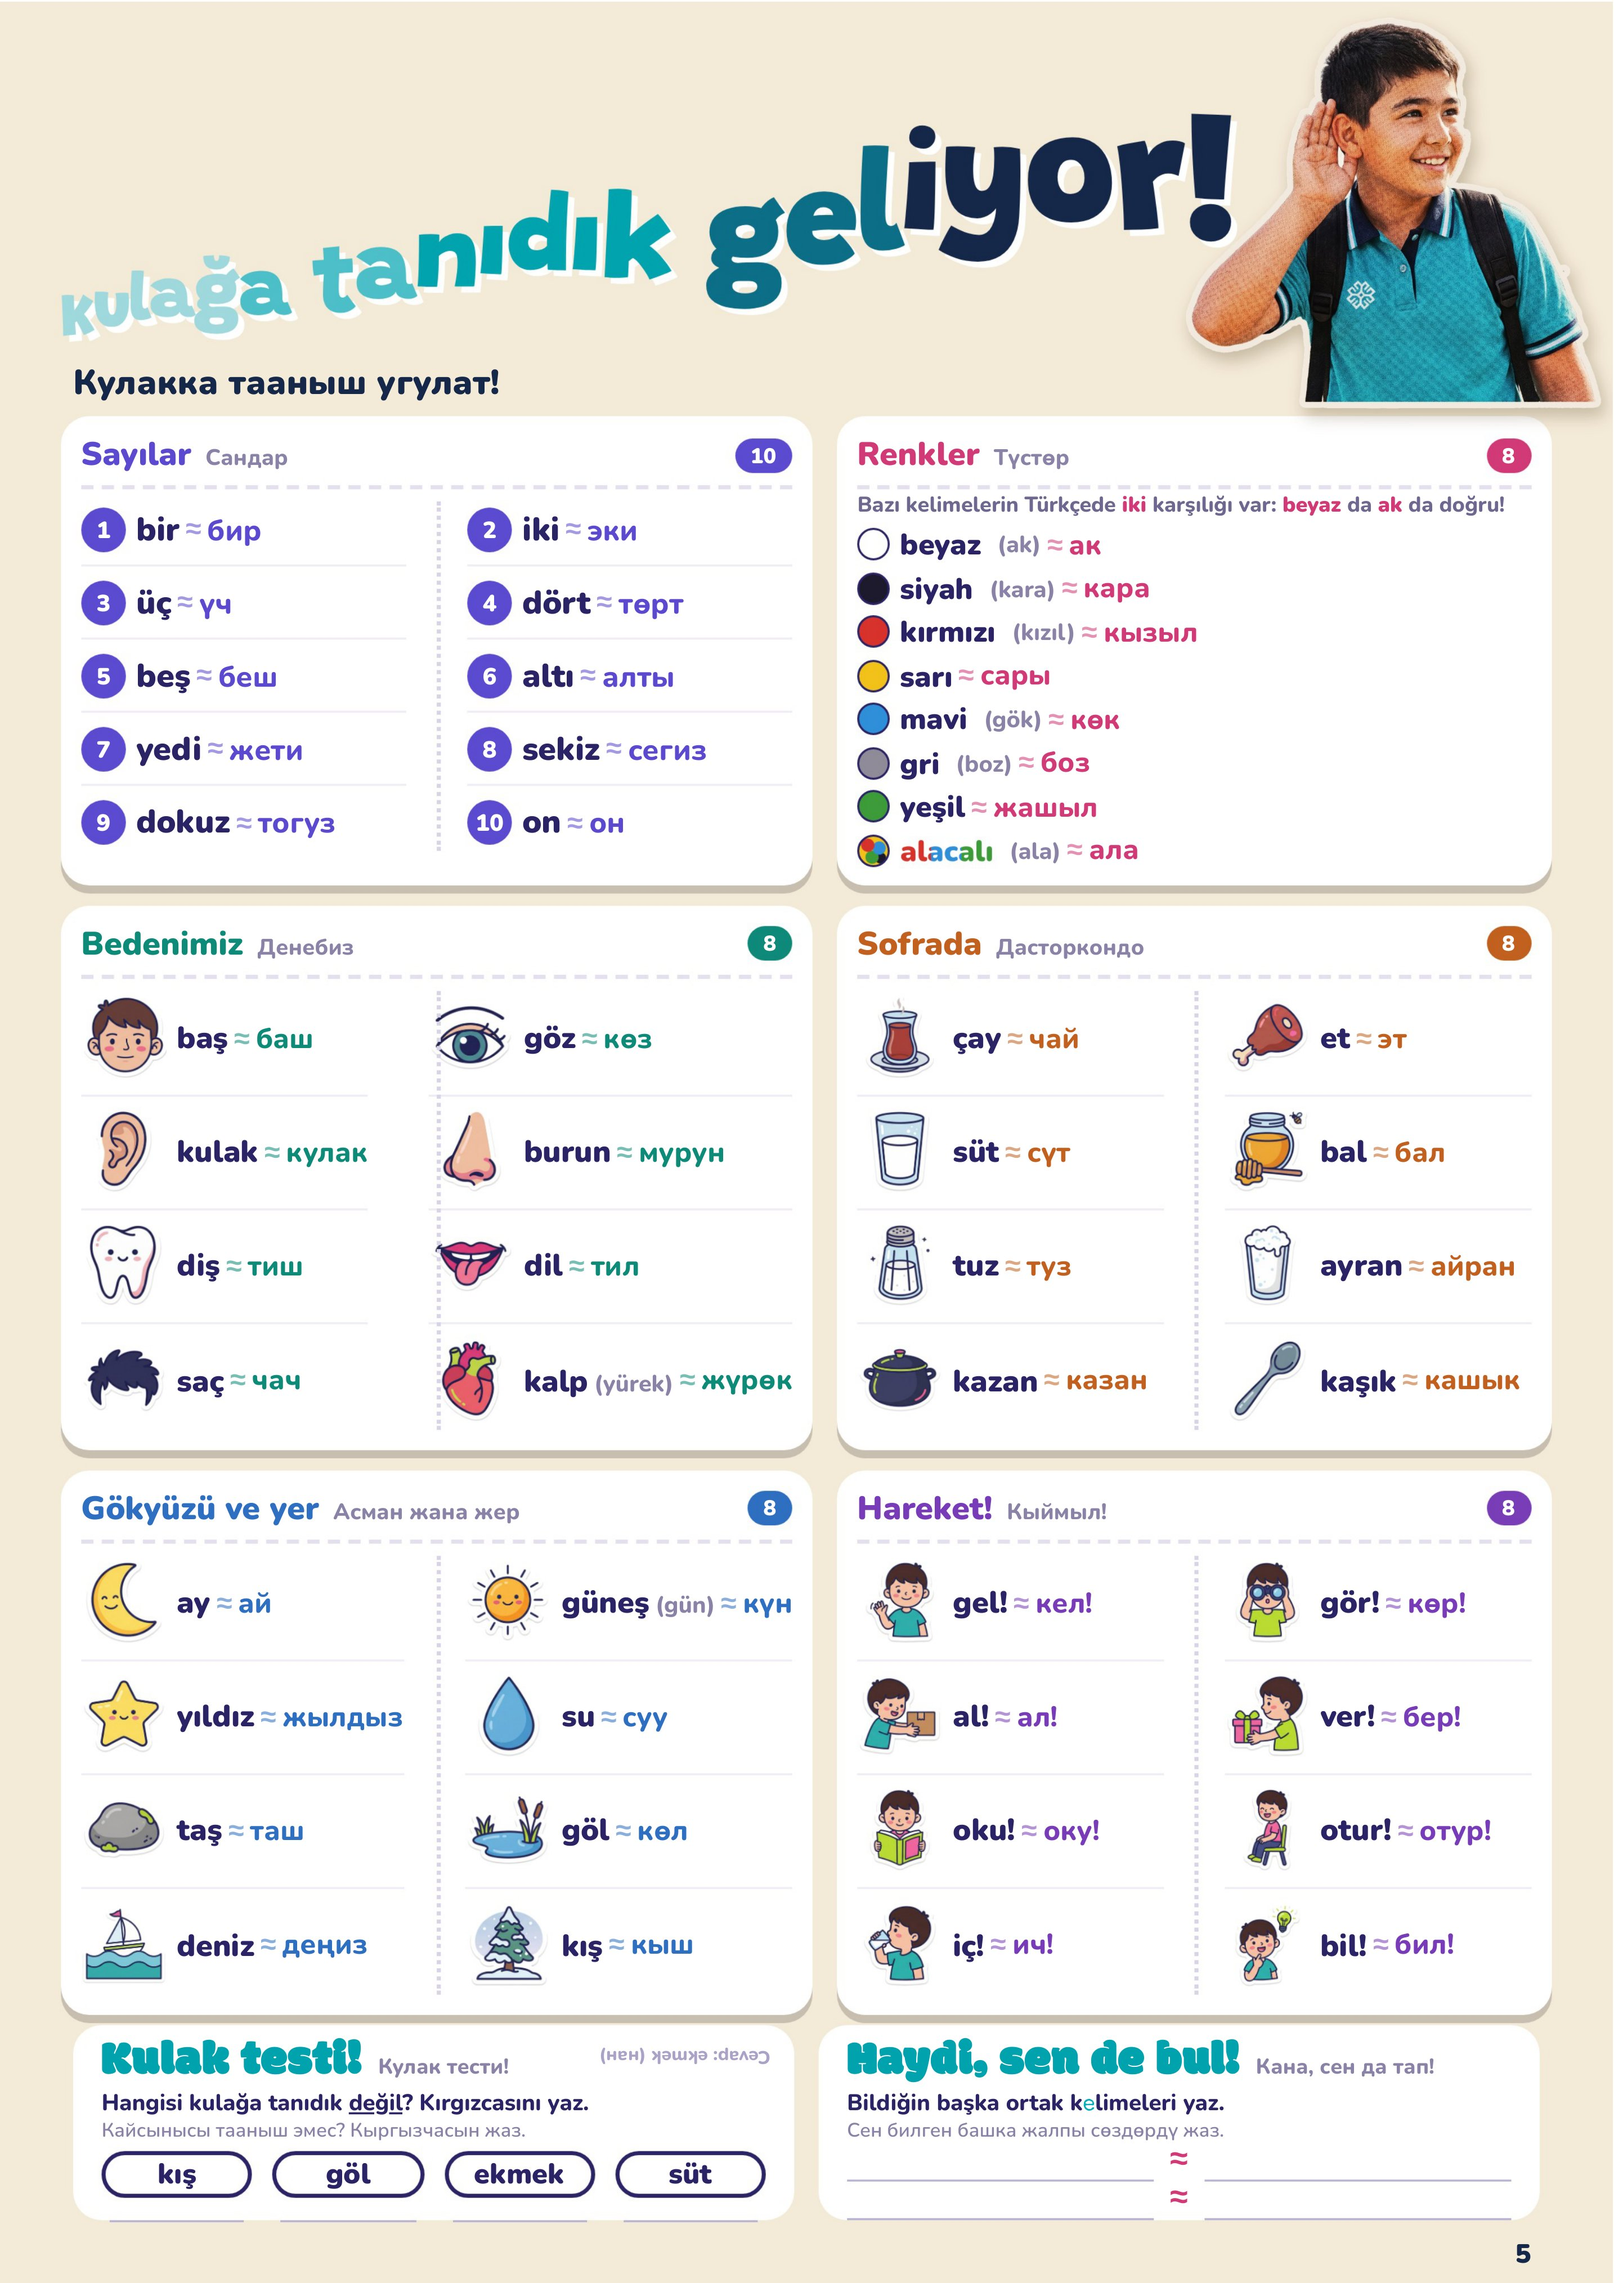
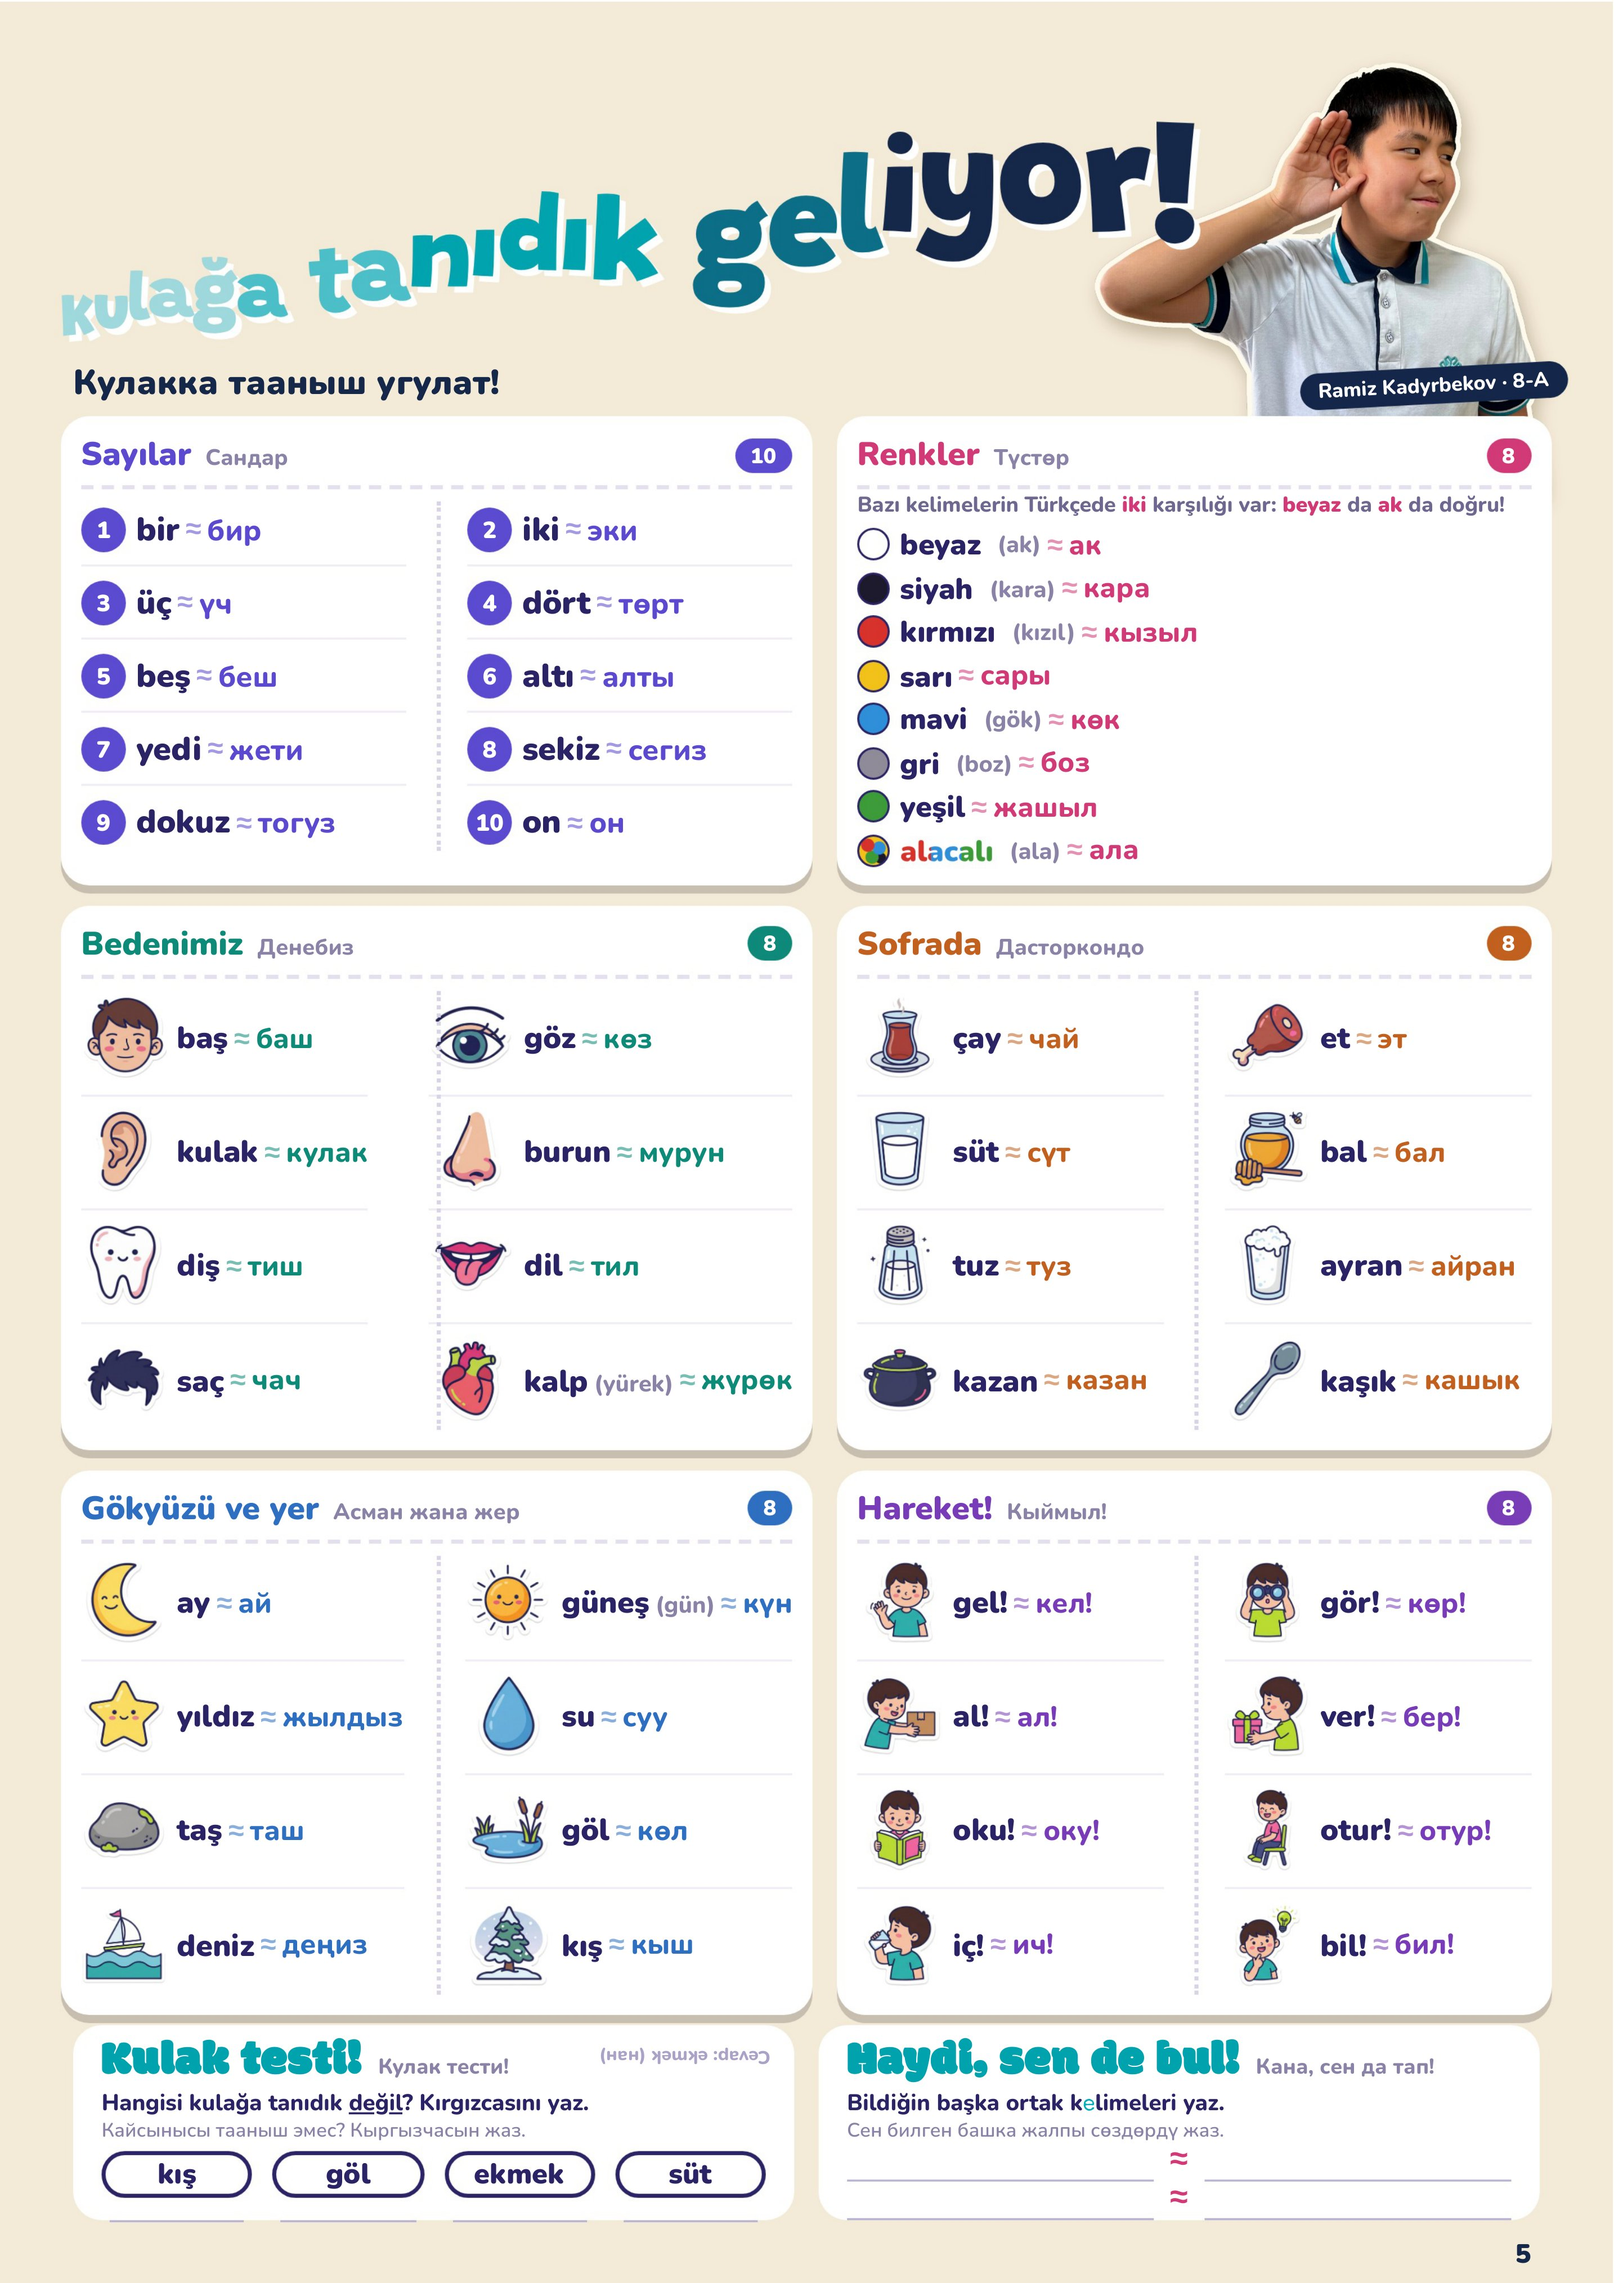
Yeni arka kapak (Görüşürüz!), 5. sayfada Ramiz'in fotoğrafı, içindekiler güncellendi
Claude-Session: https://claude.ai/code/session_01SPWYvny15e3UBniUuKYJUx

Changed region(s): [[0.1241, 0.0, 0.993, 0.1864], [0.0621, 0.1243, 0.0931, 0.1553]]

diff --git a/index.html b/index.html
@@ -136,7 +136,7 @@ footer{text-align:center;font-size:11px;font-weight:700;opacity:.6;padding:0 12p
 </div></div>
 
 <script src="lib/page-flip.browser.js"></script>
-<script src="ekstralar.js?v=20261114c"></script>
+<script src="ekstralar.js?v=20261117"></script>
 <script>
 const N = 20;
 // Sayfa ekstraları: sayfa no → [buton yazısı, başlık, kırgızca, açıklama]
@@ -151,7 +151,7 @@ const EXTRA = {
   17: ['Videolar', 'Dağların Hayaleti', 'Тоолордун арбагы', 'Kar leoparı, Anadolu parsı, kangal ve caretta videoları.'],
   18: ['Keşfet', 'Bulut Yolda', 'Булут жолдо', 'Haritada Bulut ile Kar\'ın yolunu izle. Yeni rotayı sen seç!'],
   19: ['Oyna', 'Bilgi Yağmuru', 'Маалымат жамгыры', 'Şaka olan damlayı bul!'],
-  20: ['Katıl', 'BULUT Avı', 'BULUT аңчылыгы', 'Gizli sözü yaz, çekilişe katıl. Rotaya oy ver, fotoğrafını gönder!'],
+  20: ['Katıl', 'Görüşürüz!', 'Көрүшкөнчө!', 'Gizli sözü yaz, çekilişe katıl. Rotaya oy ver, fotoğrafını gönder!'],
 };
 const ICON = '<svg width="18" height="18" viewBox="0 0 24 24"><path d="M12 2l2.6 6.4L21 9l-5 4.4L17.5 20 12 16.6 6.5 20 8 13.4 3 9l6.4-.6z" fill="currentColor"/></svg>';
 const book = document.getElementById('book');

diff --git a/ekstralar.js b/ekstralar.js
@@ -186,7 +186,7 @@ function rota(el) {
 
 // ---------- BULUT Avı ----------
 function avi(el) {
-  const f = h(`<form class="frm"><div class="fh">BULUT Avı · Gizli sözü yaz! <span>Жашыруун сөздү жаз!</span></div>
+  const f = h(`<form class="frm"><div class="fh">Sözü tamamladın mı? Buraya yaz! <span>Жашыруун сөздү жаз!</span></div>
     <p class="hint2">Dergideki mavi daktilo harfleri sırayla yaz. Sözün devamı: "…, ulaşamasan da göğe yükselirsin!"</p>
     ${kimlik()}<label>Gizli söz · Жашыруун сөз<input name="cevap" maxlength="80" required autocomplete="off" autocapitalize="characters"></label>
     <button type="submit">Çekilişe katıl · Катыш</button><div class="st"></div></form>`).firstChild;
